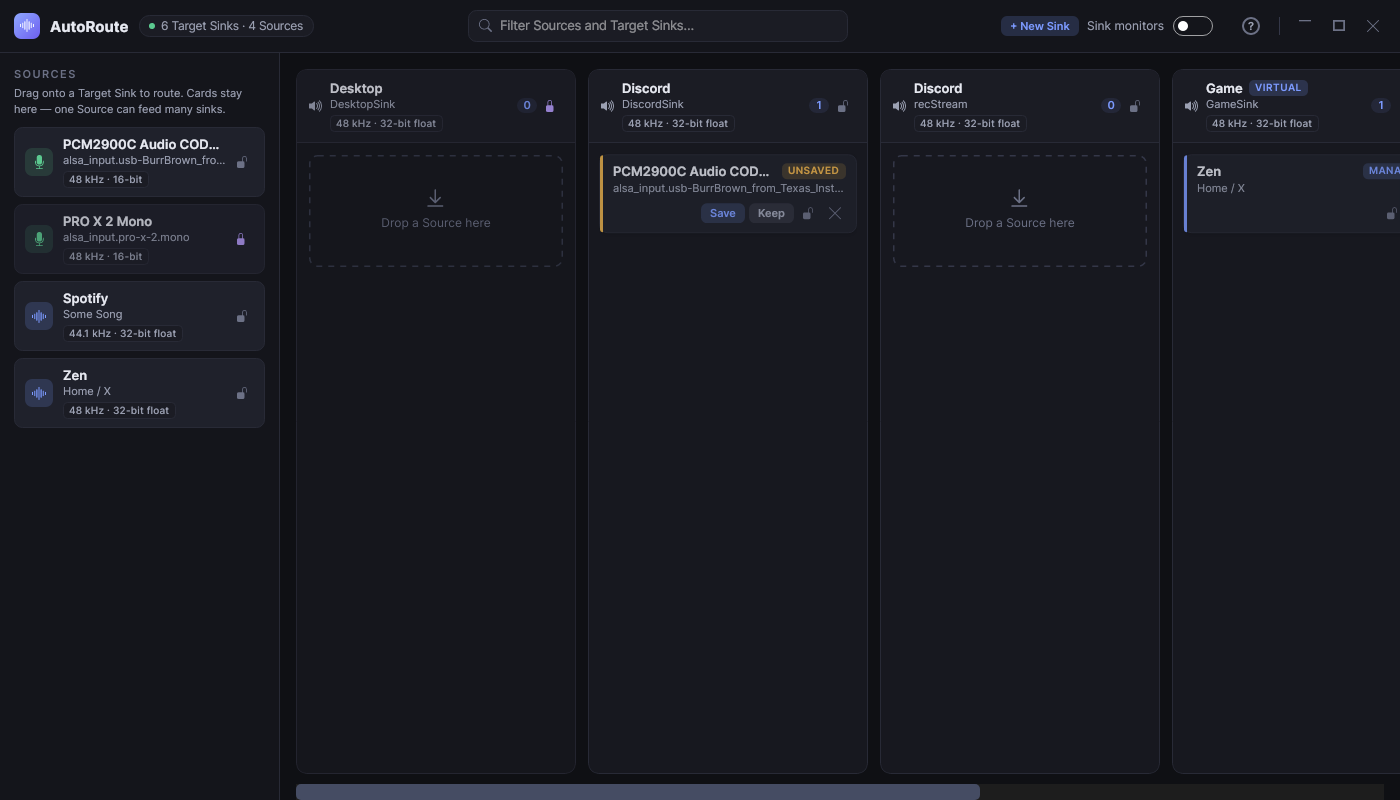
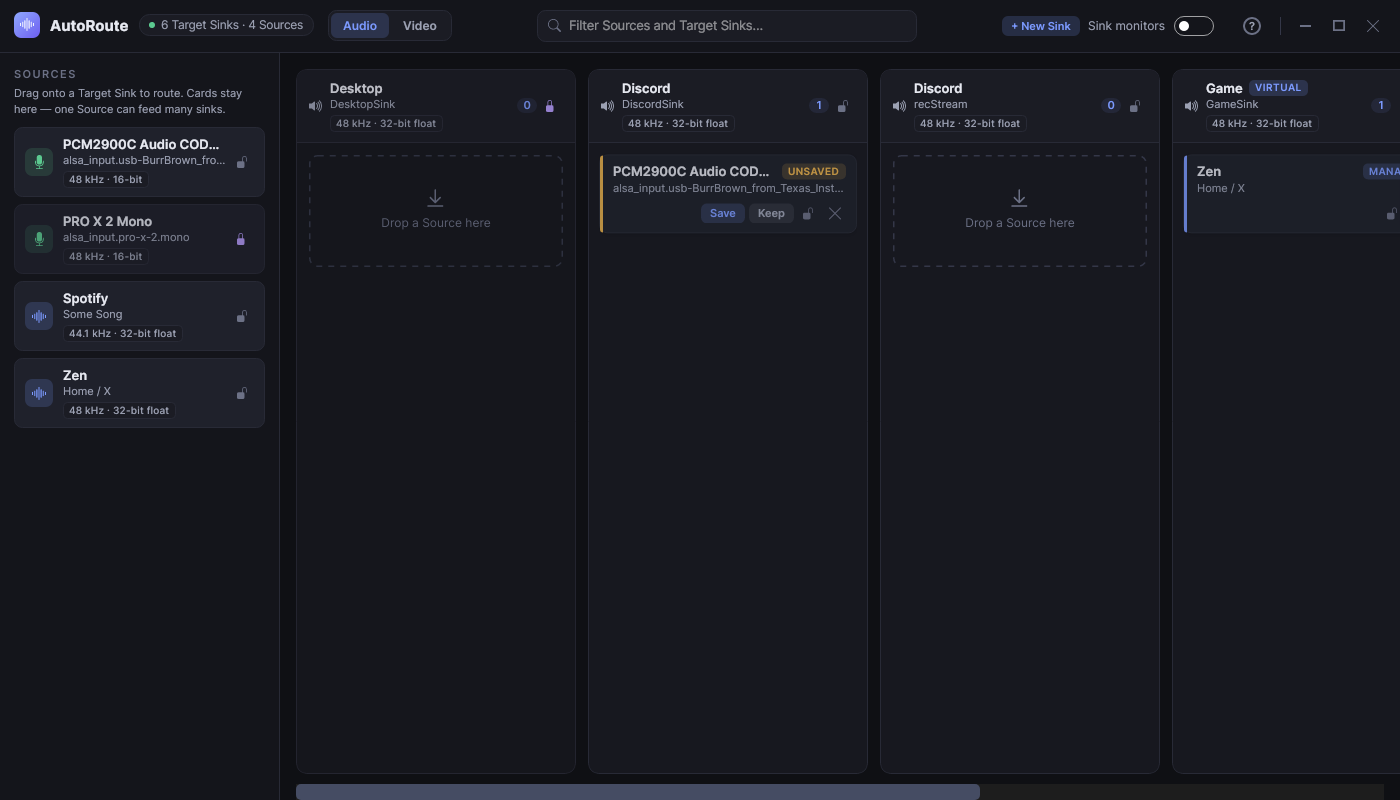
Package for the AUR; document the Video tab and refresh screenshots
The PKGBUILD was a placeholder pinned to an unreleased 0.1.0 and
sourced from the self-hosted Gitea, which is behind Cloudflare and so
not a dependable fetch target for everyone building the package. Point
it at the GitHub mirror (now public, same as simply-lighthouse-manager)
and fill in the parts that were never exercised:

- pkgver 0.3.4 with a real checksum; GitHub archives extract to
  AutoRoute-<ver>, not $pkgname, so the build/package dirs were wrong.
- Declare the deps the app actually shells out to: libpulse (pactl,
  for virtual sinks) and fontconfig (Avalonia's text stack) were missing.
- Build -r linux-x64 --no-self-contained: still framework-dependent
  against dotnet-runtime-10.0 (so .NET security updates arrive via
  pacman), but without a RID Avalonia ships Skia/HarfBuzz natives for
  arm, riscv64, musl, osx and win — 53MB down to 8.2MB.
- DebugType=none: Release otherwise stamps the absolute build path into
  every assembly, dragging $srcdir into the package.
- Install the systemd unit with ExecStart repointed at /usr/bin/autoroute;
  the in-repo one targets a ~/.local/bin install and carries AppImage
  caveats that can't apply to a pacman install.
- Add the .SRCINFO the AUR requires.

Verified by building the package and running --smoke/--smoke-ui against
the installed binary, with no makepkg QA warnings.

README: document the Video tab (with a screenshot), replace the "AUR
planned" note with real install steps, and note pactl as a requirement
[…]

diff --git a/README.md b/README.md
@@ -26,15 +26,15 @@ AutoRoute makes those patches stick, in **both directions**:
 - **Protected nodes** — mark routing that another tool owns (e.g. an EasyEffects chain) as off-limits, and AutoRoute won't touch it. Precedence is absolute: *protected > suppression > connect*.
 - **A board, not a patchbay** — a clean dark UI with one column per sink and a palette of draggable sources; drag to connect, drop into several columns to fan out, filter by name. Channels are paired for you, and each card's state — *managed*, *unsaved*, *manual*, or *protected* — is spelled out at a glance.
 - **Sample rate & bit depth at a glance** — every source and sink wears a small badge showing what it's running at (e.g. `48 kHz · 24-bit`, `44.1 kHz · 32-bit float`), read straight from the live graph.
+- **Video too, same rules** — PipeWire carries video, so the board has an **Audio / Video** switch in the toolbar. Route a Spout2PW sender (VTube Studio, an overlay, …) into OBS's PipeWire Video Capture exactly the way you route audio, and stop re-connecting it by hand every session.
 - **Runs in the background** — a tray app (and an optional systemd service) reconcile the graph continuously; closing the window just hides it.
 - **Non-destructive** — AutoRoute only ever removes links it created or ones you explicitly suppressed. Your other manual patches are never touched.
-- **A Video tab, same rules** — PipeWire carries video too, so the board has a second tab for it: route a Spout2PW sender (VTube Studio, an OBS overlay, …) into OBS's PipeWire Video Capture the same way you'd route audio — drag once, and AutoRoute reconnects it every time both apps come back up. Same reconciler, same `rules.json`, no separate config.
 
 ## Requirements
 
 - Linux with **PipeWire** and **WirePlumber** (`pw-dump`, `pw-link`, `pw-mon` available on your `PATH`)
-- The [**.NET 10 SDK**](https://dotnet.microsoft.com/download)
-- For the Video tab: a PipeWire video bridge such as **Spout2PW** on the sending side, and an app with PipeWire video capture (e.g. OBS) on the receiving side — AutoRoute just links whatever video nodes PipeWire already exposes, it doesn't install or configure the bridge itself
+- `pactl` (from `libpulse`) for the virtual-sink features
+- The [**.NET 10 SDK**](https://dotnet.microsoft.com/download) — only to build from source; the AppImage and the AUR package don't need it
 
 ## Install
 
@@ -45,8 +45,18 @@ Once running, an AppImage keeps itself current: the ⬇ toolbar button checks th
 a newer version and installs it in place (download → checksum + boot self-test → atomic swap →
 restart). `AutoRoute --check-update` is the headless equivalent.
 
-**Arch (AUR)**: planned — a ready PKGBUILD lives in `packaging/aur/` and will be published
-after the first tagged release.
+**Arch (AUR)**: [`autoroute`](https://aur.archlinux.org/packages/autoroute) — build it with your
+AUR helper of choice:
+
+```bash
+paru -S autoroute
+```
+
+It builds framework-dependent against `dotnet-runtime-10.0`, so .NET security updates arrive
+through pacman rather than being frozen into the package. The PKGBUILD lives in
+[`packaging/aur/`](packaging/aur/PKGBUILD). A pacman install gets `/usr/bin/autoroute`, a desktop
+entry, and a `systemd --user` unit (see [Autostart](#autostart)); the in-app updater stays inert
+there, since pacman owns the files.
 
 **From source:**
 
@@ -81,6 +91,24 @@ Every card wears its state on its sleeve — **managed**, **unsaved**, **manual*
 ![The card-state legend — managed, unsaved, manual, and protected explained](screenshots/board-help.png)
 
 Rules are written to `~/.config/autoroute/rules.json` the moment you make a change — there is no Save button.
+
+### The Video tab
+
+PipeWire carries video alongside audio, and the same "the IDs changed, re-patch it by hand" problem
+applies — which is why reconnecting VTube Studio to OBS becomes a ritual every time you start them.
+The **Video** switch in the toolbar shows the video half of the graph: video Sources on the left
+(a [Spout2PW](https://github.com/SimplyJustJessie/spout2pw) sender, a screen-capture stream), video
+Target Sinks as columns (OBS's *PipeWire Video Capture* source).
+
+![The Video tab — a Spout2PW sender routed into OBS's PipeWire Video Capture](screenshots/board-video.png)
+
+It works exactly like the audio board: drag a Source onto a column once, and the link is re-created
+every time both apps come back. The rules live in the same `rules.json` and are re-applied by the
+same background reconciler — there is nothing extra to configure or enable.
+
+Both apps have to be running for their nodes to exist, so start VTube Studio (with Spout2PW) and OBS
+first, then make the connection once. Virtual-sink creation is audio-only, so **+ New Sink** is
+hidden on this tab.
 
 ## Autostart
 
